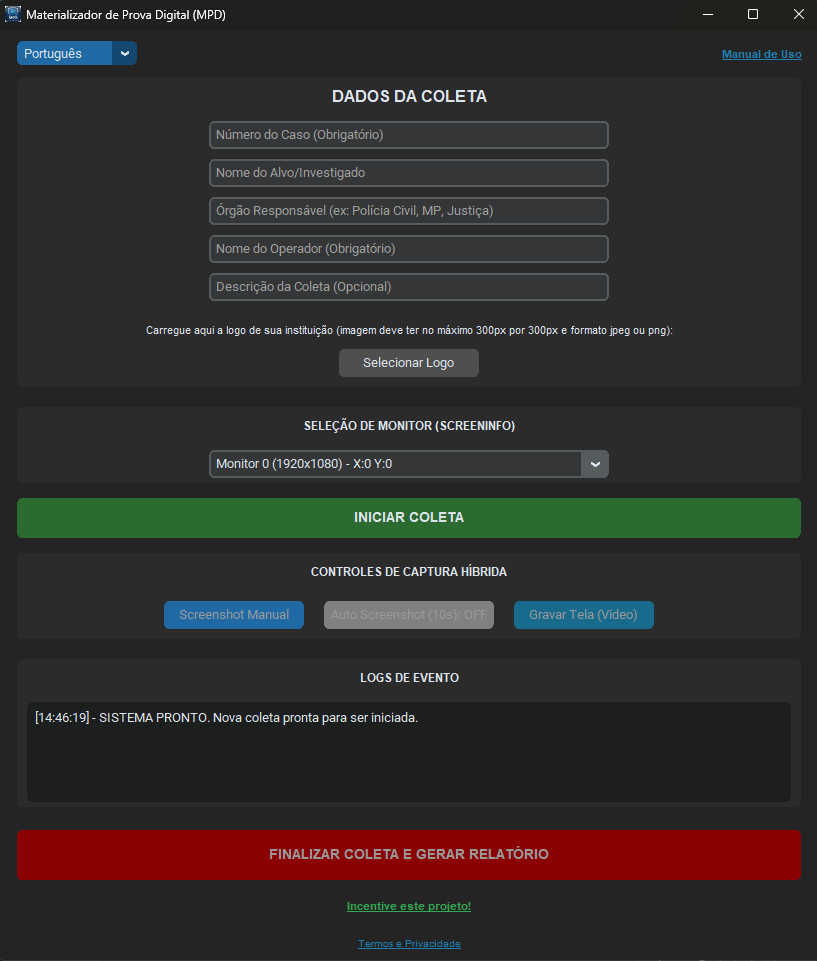
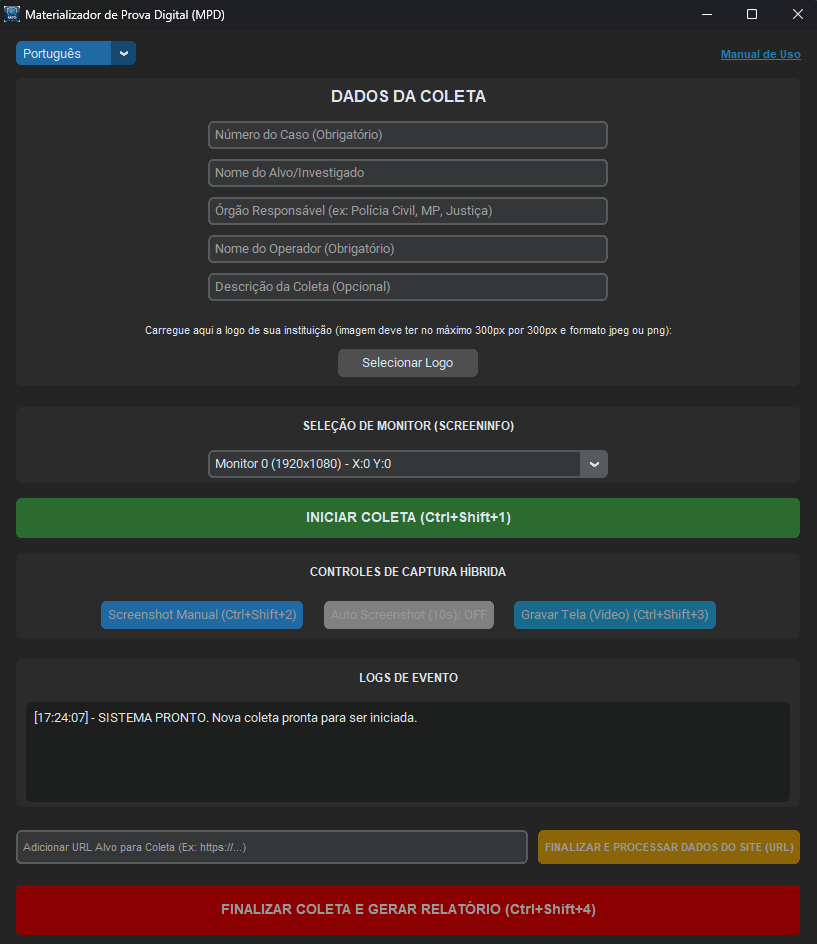
update files

diff --git a/index.html b/index.html
@@ -7,7 +7,7 @@
     
     <title>MPD - Materializador de Provas Digitais | Perícia e Forense Digital</title>
     <meta name="description" content="O MPD é uma ferramenta pericial ágil e offline para coleta, preservação e enclausuramento de provas digitais (prints e vídeos). Garante validade jurídica com Hash SHA-256 e conformidade com a ISO/IEC 27037:2012.">
-    <meta name="keywords" content="MPD, materializador de provas digitais, prova digital, perícia digital, cadeia de custódia, forense digital, ISO 27037, hash SHA-256, evidências digitais, direito digital, coleta de provas, captura de tela com validade jurídica, preservação de evidências, perícia criminal, investigação cibernética, gravação de tela forense, validade jurídica WhatsApp, STJ provas digitais, laudo pericial digital, autenticação de prints, enclausuramento digital, software forense offline, carimbo de tempo, timestamp pericial">
+    <meta name="keywords" content="MPD, materializador de provas digitais, prova digital, perícia digital, cadeia de custódia, forense digital, ISO 27037, hash SHA-256, evidências digitais, direito digital, coleta de provas, captura de tela com validade jurídica, preservação de evidências, perícia criminal, investigação cibernética, gravação de tela forense, validade jurídica WhatsApp, STJ provas digitais, laudo pericial digital, autenticação de prints, enclausuramento digital, software forense offline, carimbo de tempo, timestamp pericial, whois, osint, geoip">
     <meta name="author" content="Desenvolvedor do MPD">
     <meta name="robots" content="index, follow">
     <link rel="canonical" href="https://tircsis.github.io/mpd/">
@@ -214,7 +214,7 @@
         <img src="LOGOIMAGE.jpeg" alt="Logotipo do MPD" class="logo">
         <h1 data-i18n="main_title">Materializador de Provas Digitais (MPD)</h1>
         <p class="subtitle" data-i18n="subtitle">Ferramenta pericial ágil desenvolvida especificamente para viabilizar a coleta, preservação e o enclausuramento de provas digitais com fundamentação jurídica sólida.</p>
-        <a href="https://cutt.ly/HtWocn4G" class="download-btn" target="_blank" rel="noopener noreferrer" data-i18n="download_btn">Download do MPD v1.6</a>
+        <a href="https://cutt.ly/HtWocn4G" class="download-btn" target="_blank" rel="noopener noreferrer" data-i18n="download_btn">Download do MPD</a>
     </header>
 
     <div class="container">
@@ -242,7 +242,7 @@
 
         <div class="screenshot-container">
             <h2 data-i18n="sec3_title">Interface Simples e Direta</h2>
-            <img src="Captura191730.png" alt="Interface do MPD" class="screenshot">
+            <img src="Captura191730.png" alt="Interface do MPD" class="screenshot" id="interface-img">
         </div>
 
         <div class="card" style="margin-top: 40px;">
@@ -260,6 +260,19 @@
                 <p data-i18n="sec4_lang" style="color: var(--secondary-color); font-weight: bold; font-size: 1.1rem; margin-top: 15px; border-top: 1px solid #333; padding-top: 15px;">🌍 Suporte Multidioma: O aplicativo suporta os idiomas Português, Inglês e Espanhol, inclusive gerando o relatório técnico integralmente no idioma selecionado.</p>
                 
                 <img src="Captura220600.png" alt="Exemplo do Relatório Técnico em PDF" class="screenshot" style="max-width: 90%; margin-top: 20px;">
+            </div>
+        </div>
+
+        <div class="card" style="margin-top: 40px;">
+            <h2 data-i18n="sec5_title">Investigação de Infraestrutura (OSINT / Whois)</h2>
+            <p data-i18n="sec5_desc" style="color: var(--text-muted); margin-bottom: 20px;">A aplicação MPD realiza também a coleta de dados da página investigada fazendo uma varredura profunda de dados para crimes virtuais hospedados em URLs específicas públicas (páginas abertas web).</p>
+            <ul>
+                <li data-i18n="sec5_li1"><strong>Internet Protocol (IP) Whois:</strong> Extrai a malha da rede buscando blocos (CIDR), Sistema Autônomo (ASN), nome oficial da Empresa Provedora de Hospedagem (ISP) e especificamente os contatos de <em>Abuse Email</em> das empresas para o envio de representações de quebra de sigilo por ofício.</li>
+                <li data-i18n="sec5_li2"><strong>Mapeamento Geográfico (Dashboard Geo IP):</strong> Coleta as coordenadas (Latitude/Longitude) do provedor associadas pela API e abre momentaneamente um <em>Dashboard Geográfico (Mapa Gráfico)</em> na tela, que extrairá do seu próprio ambiente um novo print técnico mostrando o "Pino" da cidade-sede para fins ilustrativos da localização do registro.</li>
+                <li data-i18n="sec5_li3"><strong>Código Fonte Estrito:</strong> O MPD entra na página ignorando JavaScript visual dinâmico e salva todo o esqueleto bruto raiz HTML em arquivos de texto criptografados, fixando tags e links obscuros da página caso os criminosos tentem excluir futuramente.</li>
+            </ul>
+            <div class="screenshot-container" style="margin-top: 25px;">
+                <img src="dash_map_1772040835.png" alt="Dashboard Geo IP e OSINT do MPD" class="screenshot" style="border: 1px solid var(--primary-color);">
             </div>
         </div>
 
@@ -298,6 +311,11 @@
                 "sec4_li4": "<strong>Relatório Técnico Oficial:</strong> O MPD monta uma estrutura lacrada offline e emite um Relatório Técnico Avançado assinado por Hashes em formato PDF.",
                 "sec4_desc": "<strong>Organização e Clareza:</strong> O relatório pericial final é gerado automaticamente em formato <strong>PDF</strong>. Todas as informações coletadas, carimbos de tempo, assinaturas Hash e as capturas de tela são consolidadas e organizadas de maneira estruturada e profissional, prontas para anexação aos autos do processo.",
                 "sec4_lang": "🌍 Suporte Multidioma: O aplicativo suporta os idiomas Português, Inglês e Espanhol, inclusive gerando o relatório técnico integralmente no idioma selecionado.",
+                "sec5_title": "Investigação de Infraestrutura (OSINT / Whois)",
+                "sec5_desc": "A aplicação MPD realiza também a coleta de dados da página investigada fazendo uma varredura profunda de dados para crimes virtuais hospedados em URLs específicas públicas (páginas abertas web).",
+                "sec5_li1": "<strong>Internet Protocol (IP) Whois:</strong> Extrai a malha da rede buscando blocos (CIDR), Sistema Autônomo (ASN), nome oficial da Empresa Provedora de Hospedagem (ISP) e especificamente os contatos de <em>Abuse Email</em> das empresas para o envio de representações de quebra de sigilo por ofício.",
+                "sec5_li2": "<strong>Mapeamento Geográfico (Dashboard Geo IP):</strong> Coleta as coordenadas (Latitude/Longitude) do provedor associadas pela API e abre momentaneamente um <em>Dashboard Geográfico (Mapa Gráfico)</em> na tela, que extrairá do seu próprio ambiente um novo print técnico mostrando o \"Pino\" da cidade-sede para fins ilustrativos da localização do registro.",
+                "sec5_li3": "<strong>Código Fonte Estrito:</strong> O MPD entra na página ignorando JavaScript visual dinâmico e salva todo o esqueleto bruto raiz HTML em arquivos de texto criptografados, fixando tags e links obscuros da página caso os criminosos tentem excluir futuramente.",
                 "iso_title": "Conformidade com a ISO/IEC 27037:2012",
                 "iso_text": "A ISO/IEC 27037:2012 é uma norma internacional essencial que estabelece diretrizes para a identificação, coleta, aquisição e preservação de evidências digitais. O processo definido pela norma prioriza a integridade da evidência. Através de técnicas como o uso de funções de hash, a norma assegura que se possa provar que a evidência apresentada ao final do processo é exatamente a mesma que foi coletada inicialmente, sem qualquer modificação. O MPD foi desenvolvido seguindo esse rigoroso arcabouço técnico.",
                 "footer_text": "Materializador de Provas Digitais (MPD) - O Software está concebido gratuitamente como prestação de serviço à excelência de investigação penal moderna."
@@ -324,6 +342,11 @@
                 "sec4_li4": "<strong>Official Technical Report:</strong> MPD creates an offline sealed structure and issues an Advanced Technical Report signed by Hashes in PDF format.",
                 "sec4_desc": "<strong>Organization and Clarity:</strong> The final forensic report is automatically generated in <strong>PDF</strong> format. All collected information, timestamps, Hash signatures, and screenshots are consolidated and structured professionally, ready to be attached to legal proceedings.",
                 "sec4_lang": "🌍 Multilingual Support: The application supports Portuguese, English, and Spanish, including generating the full technical report in the selected language.",
+                "sec5_title": "Infrastructure Investigation (OSINT / Whois)",
+                "sec5_desc": "The MPD application also collects data from the investigated page, conducting a deep data sweep for cybercrimes hosted on specific public URLs (open web pages).",
+                "sec5_li1": "<strong>Internet Protocol (IP) Whois:</strong> Extracts the network mesh searching for blocks (CIDR), Autonomous System (ASN), official name of the Hosting Provider Company (ISP), and specifically the <em>Abuse Email</em> contacts of the companies for sending official breach of confidentiality requests.",
+                "sec5_li2": "<strong>Geographic Mapping (Geo IP Dashboard):</strong> Collects the provider's coordinates (Latitude/Longitude) associated by the API and briefly opens a <em>Geographic Dashboard (Graphic Map)</em> on the screen, which extracts a new technical print from its own environment showing the \"Pin\" of the headquarters city for illustrative purposes of the registration location.",
+                "sec5_li3": "<strong>Strict Source Code:</strong> The MPD accesses the page ignoring dynamic visual JavaScript and saves the entire raw root HTML skeleton in encrypted text files, pinning obscure tags and links from the page in case criminals attempt to delete them later.",
                 "iso_title": "Compliance with ISO/IEC 27037:2012",
                 "iso_text": "ISO/IEC 27037:2012 is an essential international standard that establishes guidelines for the identification, collection, acquisition, and preservation of digital evidence. The process defined by the standard prioritizes evidence integrity. Through techniques such as hash functions, the standard ensures that the evidence presented at the end of the process can be proven to be exactly the same as initially collected, without any modification. MPD was developed following this rigorous technical framework.",
                 "footer_text": "Digital Evidence Materializer (MPD) - The software is provided free of charge as a service to modern criminal investigation excellence."
@@ -350,10 +373,22 @@
                 "sec4_li4": "<strong>Informe Técnico Oficial:</strong> MPD crea una estructura sellada offline y emite un Informe Técnico Avanzado firmado por Hashes en formato PDF.",
                 "sec4_desc": "<strong>Organización y Claridad:</strong> El informe forense final se genera automáticamente en formato <strong>PDF</strong>. Toda la información recopilada, marcas de tiempo, firmas Hash y capturas de pantalla se consolidan de manera estructurada y profesional, listas para anexarse a los expedientes judiciales.",
                 "sec4_lang": "🌍 Soporte Multilingüe: La aplicación soporta los idiomas Portugués, Inglés y Español, incluyendo la generación del informe técnico íntegramente en el idioma seleccionado.",
+                "sec5_title": "Investigación de Infraestructura (OSINT / Whois)",
+                "sec5_desc": "La aplicación MPD también realiza la recopilación de datos de la página investigada mediante un barrido profundo de datos para delitos cibernéticos alojados en URL públicas específicas (páginas web abiertas).",
+                "sec5_li1": "<strong>Internet Protocol (IP) Whois:</strong> Extrae la malla de red buscando bloques (CIDR), Sistema Autónomo (ASN), nombre oficial de la Empresa Proveedora de Alojamiento (ISP) y específicamente los contactos de <em>Abuse Email</em> de las empresas para el envío de representaciones de levantamiento de secreto por oficio.",
+                "sec5_li2": "<strong>Mapeo Geográfico (Dashboard Geo IP):</strong> Recopila las coordenadas (Latitud/Longitud) del proveedor asociadas por la API y abre momentáneamente un <em>Dashboard Geográfico (Mapa Gráfico)</em> en la pantalla, que extraerá de su propio entorno una nueva impresión técnica que muestra el \"Pin\" de la ciudad sede con fines ilustrativos de la ubicación del registro.",
+                "sec5_li3": "<strong>Código Fuente Estricto:</strong> El MPD ingresa a la página ignorando el JavaScript visual dinámico y guarda todo el esqueleto raíz HTML sin procesar en archivos de texto encriptados, fijando etiquetas y enlaces oscuros de la página en caso de que los delincuentes intenten eliminarlos en el futuro.",
                 "iso_title": "Cumplimiento de la norma ISO/IEC 27037:2012",
                 "iso_text": "La norma ISO/IEC 27037:2012 es un estándar internacional esencial que establece pautas para la identificación, recopilación, adquisición y preservación de evidencia digital. El proceso definido por la norma prioriza la integridad de la evidencia. A través de técnicas como las funciones hash, la norma asegura que se pueda probar que la evidencia presentada al final del proceso es exactamente la misma que se recopiló inicialmente, sin ninguna modificación. MPD fue desarrollado siguiendo este riguroso marco técnico.",
                 "footer_text": "Materializador de Pruebas Digitales (MPD) - El software se proporciona de forma gratuita como un servicio a la excelencia de la investigación penal moderna."
             }
+        };
+
+        // Dicionário de imagens correspondentes a cada idioma
+        const interfaceImages = {
+            "pt": "Captura191730.png",
+            "en": "Captura191730en.png",
+            "es": "Captura191730sp.png"
         };
 
         function setLanguage(lang) {
@@ -364,6 +399,9 @@
                     el.innerHTML = translations[lang][key];
                 }
             });
+
+            // Troca a imagem da interface de acordo com o idioma selecionado
+            document.getElementById('interface-img').src = interfaceImages[lang];
 
             // Gerencia os botões ativos
             document.querySelectorAll('.lang-btn').forEach(btn => btn.classList.remove('active'));
